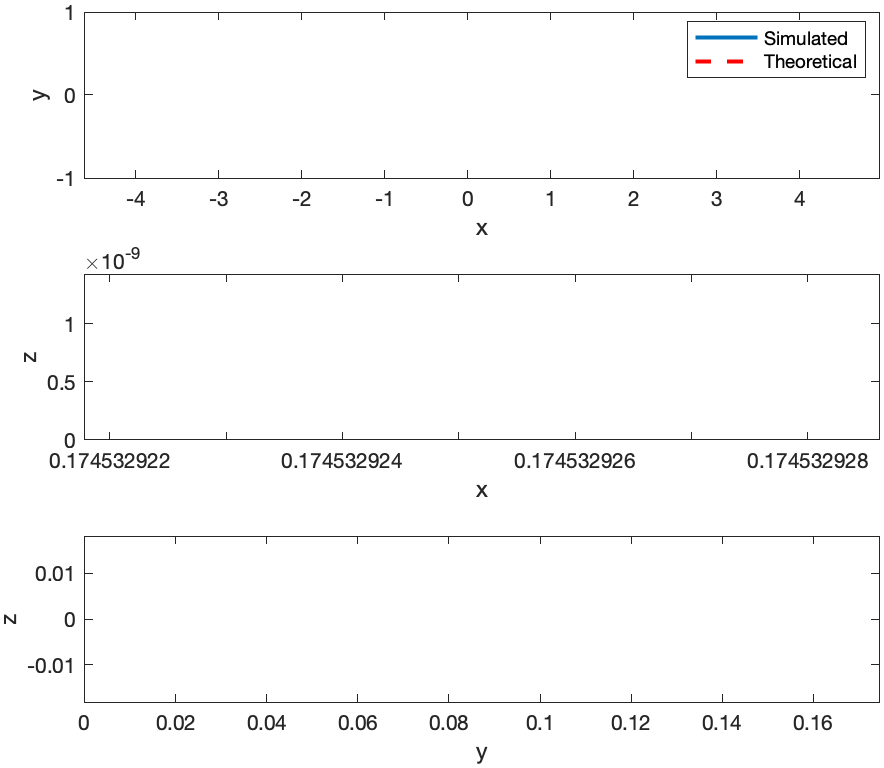
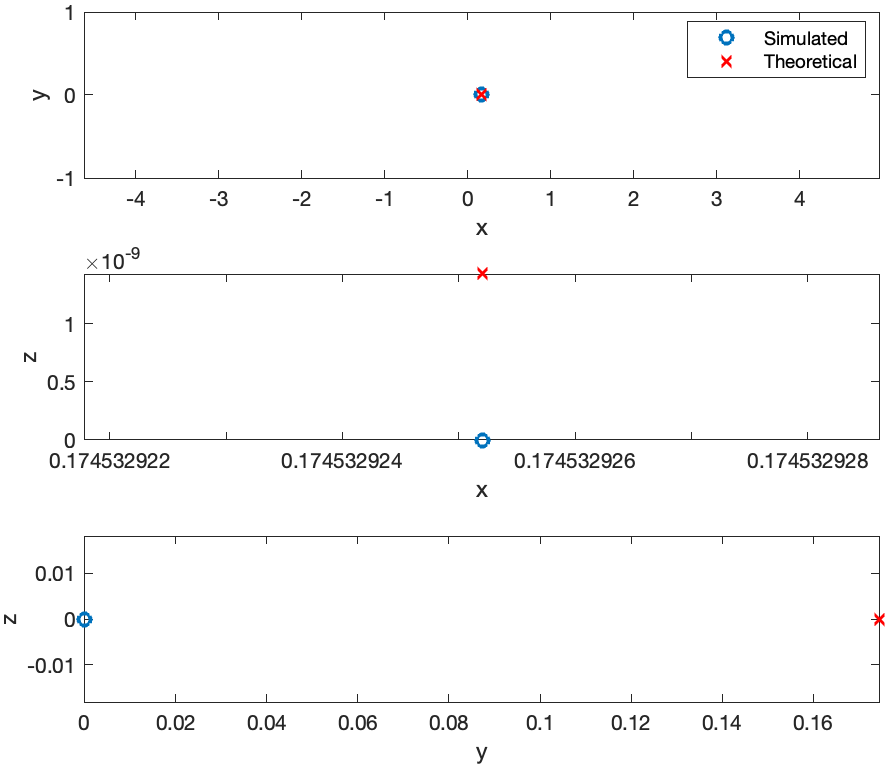
modified plots, still need some work

diff --git a/Code/HW2main.m b/Code/HW2main.m
@@ -17,16 +17,16 @@ x0_deg = [-7, 2, 5].';
 x0 = x0_deg*pi/180;
 Tfinal = 120;
 
-genPlots(Icm_prime, 'random')
+genPlots(Icm_prime, 'random', 0)
 
 x0_deg = [10, 0, 0].';
 x0 = x0_deg*pi/180;
 Tfinal = 120;
 
-genPlots(Icm_prime, 'principal')
+genPlots(Icm_prime, 'principal', 1)
 
 
-function genPlots(Icm_prime, name)
+function genPlots(Icm_prime, name, flag)
 
     load_system("eulerPropagate")
     open_system("eulerPropagate")
@@ -46,21 +46,22 @@ function genPlots(Icm_prime, name)
     
     L = vecnorm(Lvec,2,2);
     
-    T = Tvec(1);
-    L = L(1);
+    T = Tvec(1)
+    L = L(1)
     
     
     % Integration
     figure 
     hold on
-    plot(t, om(:,1), 'LineWidth',2)
-    plot(t, om(:,2), 'LineWidth',2)
-    plot(t, om(:,3), 'LineWidth',2)
+    plot(t, om(:,1), 'LineWidth',2, 'DisplayName', '\omega_x')
+    plot(t, om(:,2), 'LineWidth',2, 'DisplayName', '\omega_y')
+    plot(t, om(:,3), 'LineWidth',2, 'DisplayName', '\omega_z')
     hold off
     ax = gca();
     ax.FontSize = 14;
     xlabel('t [sec]')
     ylabel('\omega [rad/s]')
+    legend
     exportgraphics(gcf, ['../Images/omega_prop_', name, '.png'])
     
     % Energy and Momentum Ellipsoids
@@ -116,8 +117,16 @@ function genPlots(Icm_prime, name)
     surface(X,Y,-Z,'FaceColor', 'b', 'DisplayName', 'Momentum Ellipsoid')
     
     
+    if flag
+        markerSim = 'o';
+        markerTheo = 'x';
+    else
+        markerSim = '-';
+        markerTheo = '--';
+    end
+
     % Polhode plots
-    plot3(om(:,1), om(:,2), om(:,3), 'r', 'LineWidth', 5, 'DisplayName', 'Polhode')
+    plot3(om(:,1), om(:,2), om(:,3), ['r' markerSim], 'LineWidth', 5, 'DisplayName', 'Polhode')
     axis equal
     view([1 1 0.5])
     ax = gca();
@@ -142,11 +151,11 @@ function genPlots(Icm_prime, name)
     ax = gca();
     ax.FontSize = 14;
     ax.LineWidth = 2;
-    plot(om(:,1), om(:,2), 'DisplayName', 'Simulated', 'LineWidth', 2)
+    plot(om(:,1), om(:,2), markerSim, 'DisplayName', 'Simulated', 'LineWidth', 2)
     hold on
     y = real( sqrt( (L^2 - 2*T*Iz - (Ix - Iz).*Ix.*x.^2)/((Iy - Iz)*Iy) ) );
-    plot(x,y, 'r--', 'HandleVisibility','off', 'LineWidth', 2)
-    plot(x,-y,'r--', 'DisplayName', 'Theoretical', 'LineWidth', 2)
+    plot(x,y, ['r', markerTheo], 'HandleVisibility','off', 'LineWidth', 2)
+    plot(x,-y,['r' markerTheo], 'DisplayName', 'Theoretical', 'LineWidth', 2)
     xlabel('x')
     ylabel('y')
     legend
@@ -155,24 +164,24 @@ function genPlots(Icm_prime, name)
     ax = gca();
     ax.FontSize = 14;
     ax.LineWidth = 2;
-    plot(om(:,1), om(:,3), 'LineWidth', 2)
+    plot(om(:,1), om(:,3), markerSim, 'LineWidth', 2)
     hold on
     xlabel('x')
     ylabel('z')
     z = real( sqrt( (L^2 - 2*T*Iy - (Ix - Iy).*Ix.*x.^2)/((Iz - Iy)*Iz) ) );
-    plot(x,z, 'r--', 'LineWidth', 2)
+    plot(x,z, ['r' markerTheo], 'LineWidth', 2)
     axis equal
     subplot(3,1,3)
     ax = gca();
     ax.FontSize = 14;
     ax.LineWidth = 2;
-    plot(om(:,2), om(:,3), 'LineWidth', 2)
+    plot(om(:,2), om(:,3), markerSim, 'LineWidth', 2)
     hold on
     xlabel('y')
     ylabel('z')
     y = x;
     z = real( sqrt( (L^2 - 2*T*Ix - (Iy - Ix).*Iy.*y.^2)/((Iz - Ix)*Iz) ) );
-    plot(y,z, 'r--', 'LineWidth', 2)
+    plot(y,z, ['r' markerTheo], 'LineWidth', 2)
     axis equal
 
     exportgraphics(gcf, ['../Images/planar_polhode_', name, '.png'])
